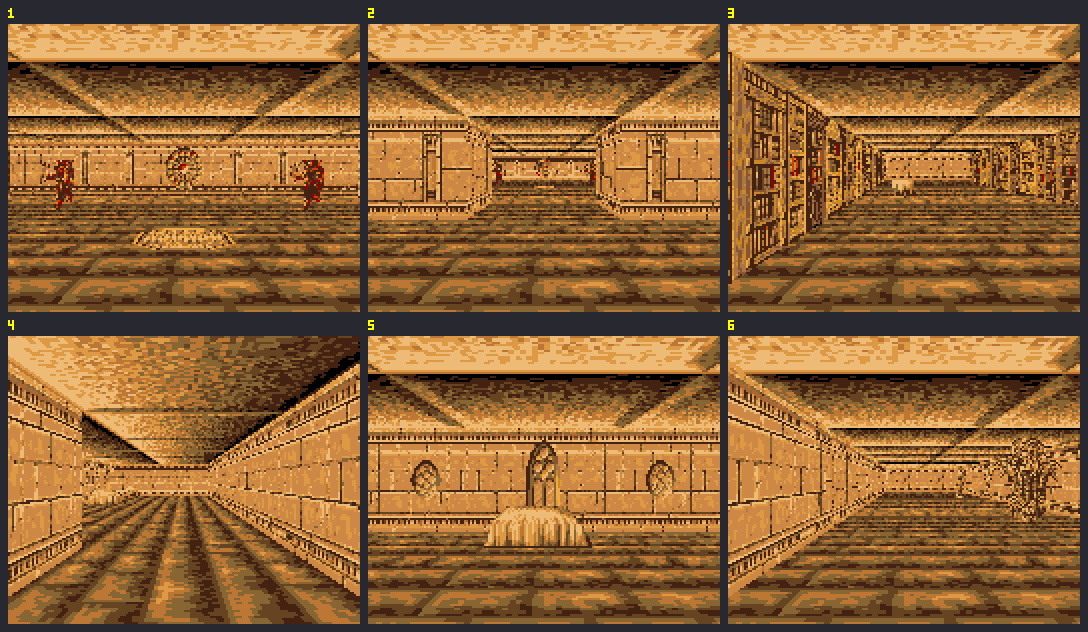
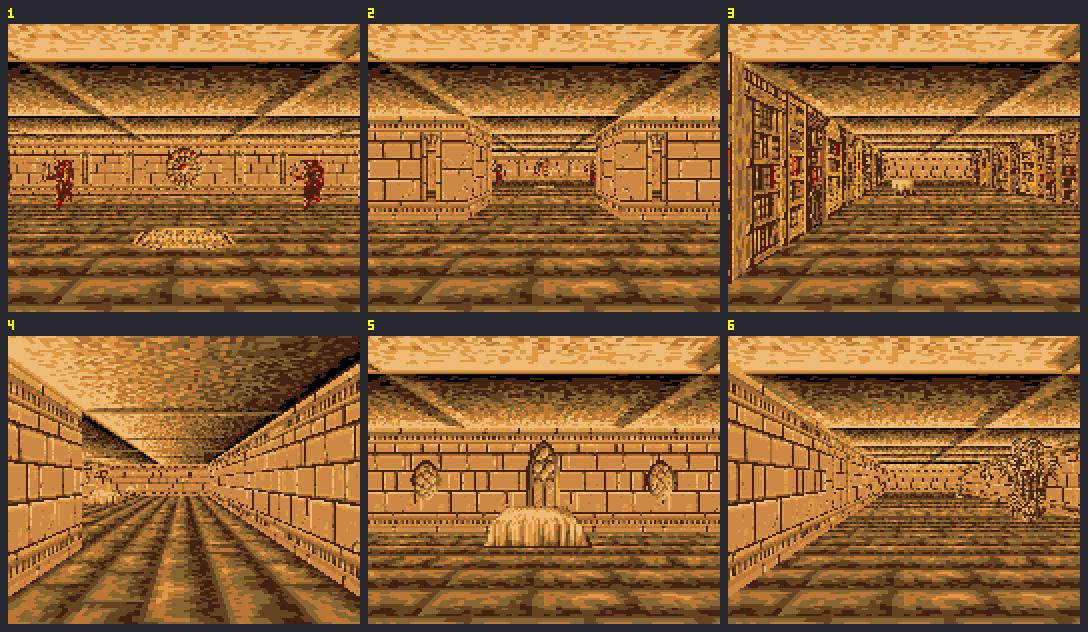
Sandstone walls from the new texture with wide joints, plain wall with staggered courses

diff --git a/assets/Temples/tools/make_sandstone_walls.py b/assets/Temples/tools/make_sandstone_walls.py
@@ -1,7 +1,8 @@
-"""Make the sandstone temple walls from textures/Pixel-Art-Sandsteinwand mit Tempelfriesen.png.
+"""Make the sandstone temple walls from textures/Pixelart-Sandsteinmauer mit ägyptischen Säulen.png
+(or the picture given in the environment variable SANDSTONE_SRC).
 
 - 193 frieze wall with two lotus columns (the picture)
-- 194 frieze wall without columns (middle section repeated, separated by a joint)
+- 194 frieze wall without columns (middle section repeated, courses staggered)
 - 195 gateway: dark passage between the columns, through the lower frieze down to the floor
 
 Usage: python make_sandstone_walls.py [sharpen contrast [out dir [threshold]]]
@@ -19,14 +20,13 @@ import ambcontainer as amb  # noqa: E402
 import textures as tx  # noqa: E402
 
 DATA = os.path.join(HERE, '..', '..', '..', 'german', 'Amberfiles')
-SRC = os.path.join(HERE, '..', 'textures', 'Pixel-Art-Sandsteinwand mit Tempelfriesen.png')
+SRC = os.path.join(HERE, '..', 'textures', os.environ.get('SANDSTONE_SRC', 'Pixelart-Sandsteinmauer mit ägyptischen Säulen.png'))
 OUT = os.path.join(HERE, '..', 'textures', 'generated')
 STONE = {1: 'eb7', 2: 'd94', 3: 'b73', 4: '863', 5: '642', 6: '421', 12: 'c84', 13: 'a63'}
 
 WALL_TOP, WALL_BOTTOM = 11, 68          # rows between the friezes
-SHARPEN, CONTRAST, THRESHOLD = 2.5, 1.1, 6    # see sharpen()
-MID = (36, 91)                          # stone section between the columns
-JOINT_X = 35                            # column frame edge, used as a vertical joint
+SHARPEN, CONTRAST, THRESHOLD = 1.0, 1.05, 8   # see sharpen()
+MID = (37, 88)                          # stone section between the columns (joint at 36)
 
 
 def sharpen(img, amount=1.5, contrast=1.15, threshold=THRESHOLD):
@@ -72,13 +72,23 @@ def pal_bytes(pal):
 
 
 def plain(cols):
+    """The stone section between the columns (with its left joint) is repeated over the whole width. Each
+    course (found by its horizontal joints) gets its own offset, so the vertical joints are staggered like
+    in real masonry instead of running through the whole height."""
     rows = [list(r) for r in cols]
-    a, b = MID
-    seg = list(range(a, b + 1))
-    xs = (seg + [JOINT_X]) * 3
+    seq = [MID[0] - 1] + list(range(MID[0], MID[1] + 1))       # joint + stone section
+    period = len(seq)
+    dark = (5, 6)
+    joints = [y for y in range(WALL_TOP, WALL_BOTTOM + 1)
+              if sum(cols[y][x] in dark for x in seq) > 0.6 * period]
+    course, last = 0, None
     for y in range(WALL_TOP, WALL_BOTTOM + 1):
-        src = cols[y]
-        rows[y] = [src[x] for x in xs[:128]]
+        if y in joints:
+            if last is not None and y != last + 1:
+                course += 1
+            last = y
+        phase = (course * 23) % period
+        rows[y] = [cols[y][seq[(x + phase) % period]] for x in range(128)]
     return rows
 
 

diff --git a/assets/Temples/textures/README.md b/assets/Temples/textures/README.md
@@ -2,11 +2,14 @@
 
 | Datei | Inhalt |
 |---|---|
-| `Pixel-Art-Sandsteinwand mit Tempelfriesen.png` | Vorlage (1586×992, 16:10) |
+| `Pixelart-Sandsteinmauer mit ägyptischen Säulen.png` | Aktuelle Vorlage (1585×992, 16:10), breite dunkle Fugen |
+| `Pixel-Art-Sandsteinwand mit Tempelfriesen.png` | Erste Vorlage (zu wenig Kontrast), über `SANDSTONE_SRC` weiter nutzbar |
 | `generated/sandstone_193..195.tex` | Wände 193–195 als Texture4Bit (128×80), daneben die Vorschauen `_x4.png` |
 | `generated/wuestentempel.pal` | Palette 59 „Wüstentempel“ (32 Farben). Steinfarben 1–6/12/13 passend zur Vorlage, der Rest wie Palette 6 |
 
-Beim Verkleinern werden Kanten (Fugen, Steinkanten) verstärkt und Flächen geglättet (`sharpen()`, Standard: Stärke 2,5, Kontrast 1,1, Schwelle 6), sonst wirkt die Wand flach.
+Beim Verkleinern werden Kanten (Fugen, Steinkanten) verstärkt und Flächen geglättet (`sharpen()`, Standard für die aktuelle Vorlage: Stärke 1,0, Kontrast 1,05, Schwelle 8), sonst wirkt die Wand flach.
+
+Wand 194 (ohne Säulen) wiederholt den Mittelteil, jede Steinreihe mit eigenem Versatz, damit die Stoßfugen nicht über die ganze Höhe durchlaufen.
 
 Neu erzeugen: `python assets/Temples/tools/make_sandstone_walls.py`, danach `build_prototype.py`.
 Für weitere Vorlagen: `tools/convert_texture.py` (Verkleinern mit Flächenmittel, Palette ableiten oder vorgeben, optional Dithering).
